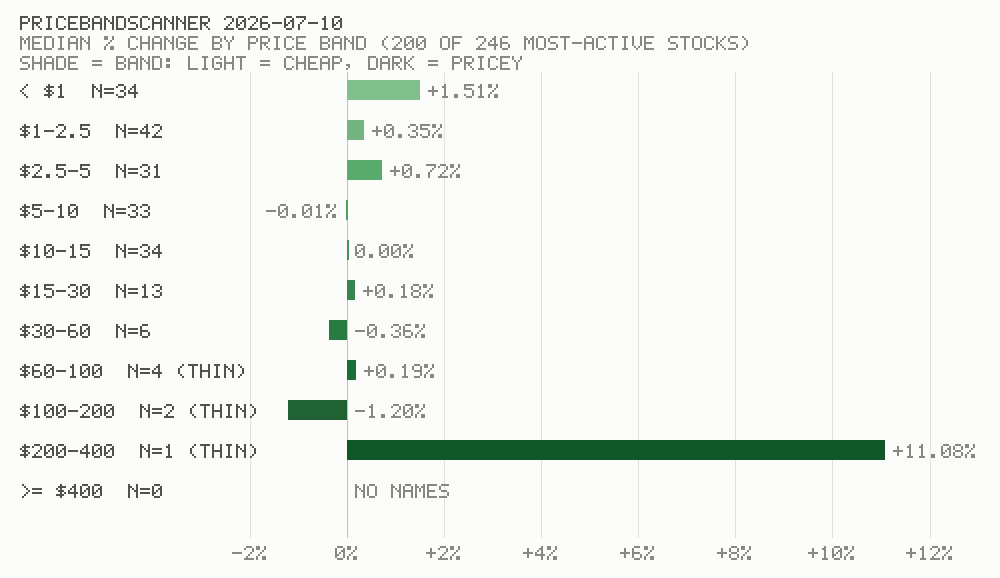
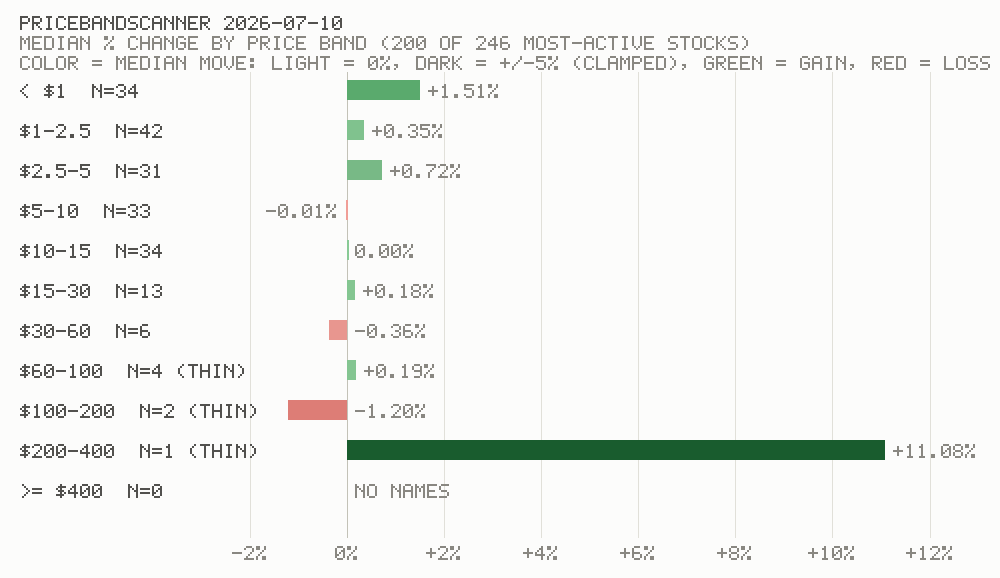
PriceBandScanner chart: diverging colors encode the move, not the band
Bar color now carries the median % change - light-to-dark green for
gains of 0 to +5%, light-to-dark red for losses, clamped at +/-5% -
replacing the shade-by-band-position scheme, so a flat band looks
quiet and a losing band is unmistakably red. Red ramp is the green
OKLCH ladder at hue 25. Header key, doc example image, and alt text
updated; TODO.md gains the remaining deferred items (breaker
extensions, version stamps, script tests) with the completed chart
item removed.

diff --git a/tools/price_band_scanner.py b/tools/price_band_scanner.py
@@ -123,17 +123,16 @@ def _oklch_hex(L, C, H):
     return "#%02x%02x%02x" % (enc(r), enc(g), enc(bl))
 
 
-def green_ramp(n):
-    out = []
-    for i in range(n):
-        L = 0.75 - (0.385 * i / max(1, n - 1))
-        c = 0.12 if 0.45 <= L <= 0.70 else 0.10
-        hx = None
-        while hx is None and c > 0.02:
-            hx = _oklch_hex(L, c, 150)
-            c -= 0.01
-        out.append(hx or "#2c7f44")
-    return out
+def value_color(v):
+    hue = 150 if v >= 0 else 25
+    t = min(abs(v), 5.0) / 5.0
+    L = 0.78 - t * (0.78 - 0.42)
+    c = 0.12 if 0.45 <= L <= 0.70 else 0.10
+    hx = None
+    while hx is None and c > 0.02:
+        hx = _oklch_hex(L, c, hue)
+        c -= 0.01
+    return hx or "#888888"
 
 
 class Canvas:
@@ -199,7 +198,7 @@ def render_chart(path, stats, rows_used, total_items, date_str, degenerate=False
         return left + (v - lo) / (hi - lo) * plot_w
     cv.text(20, 16, f"PRICEBANDSCANNER {date_str}", INK, 2)
     cv.text(20, 36, f"MEDIAN % CHANGE BY PRICE BAND ({rows_used} OF {total_items} MOST-ACTIVE STOCKS)", MUTED, 2)
-    cv.text(20, 56, "SHADE = BAND: LIGHT = CHEAP, DARK = PRICEY", MUTED, 2)
+    cv.text(20, 56, "COLOR = MEDIAN MOVE: LIGHT = 0%, DARK = +/-5% (CLAMPED), GREEN = GAIN, RED = LOSS", MUTED, 2)
     if degenerate:
         cv.text(20, 78, "WARNING: DEGENERATE SAMPLE (MARKET CLOSED) - NOT ACTIVITY-RANKED", "#d03b3b", 2)
     step = max(1, round((hi - lo) / 8))
@@ -210,7 +209,6 @@ def render_chart(path, stats, rows_used, total_items, date_str, degenerate=False
         lbl = f"{'+' if t > 0 else ''}{t}%"
         cv.text(x - cv.text_width(lbl, 2) / 2, h - 32, lbl, MUTED, 2)
         t += step
-    ramp = green_ramp(len(stats))
     for i, s in enumerate(stats):
         y = top + i * rowh
         label = s["band"] + (f"  N={s['count']}" if s["count"] else "  N=0")
@@ -222,7 +220,7 @@ def render_chart(path, stats, rows_used, total_items, date_str, degenerate=False
             continue
         v = s["median_pct"]
         x0, x1 = X(min(0.0, v)), X(max(0.0, v))
-        cv.rect(x0, y + 2, x1 if x1 > x0 + 1 else x0 + 2, y + 22, ramp[i])
+        cv.rect(x0, y + 2, x1 if x1 > x0 + 1 else x0 + 2, y + 22, value_color(v))
         vlbl = f"{'+' if v > 0 else ''}{v:.2f}%"
         if v >= 0:
             cv.text(x1 + 8, y + 6, vlbl, MUTED, 2)

diff --git a/TODO.md b/TODO.md
@@ -1,0 +1,11 @@
+# TODO — deferred work before a stable 1.2
+
+## Circuit breaker extensions: stop-count and drawdown guards
+- Halt new buys when N stop-losses fill within a window (e.g. 3 in one day) — a regime signal the daily P&L breaker can miss.
+- Halt or de-risk on cumulative drawdown from the account's high-water mark (the daily breaker resets every day and never sees a slow bleed).
+
+## Version-stamp every run
+Include the routine document's git commit hash in each run report (and optionally a column in `trade-ledger.csv`), so every trade is attributable to the exact rule set that produced it.
+
+## Tests for the deterministic scripts
+Small test suite for `evaluate_candidates.py` and `tools/price_band_scanner.py` using the already-verified fixtures: FISN/TTRX medians and highs (live-checked 2026-07-07), the interpolated-bar handling, and the degenerate-sample guard fixture.

diff --git a/tools/PriceBandScanner.md b/tools/PriceBandScanner.md
@@ -34,9 +34,9 @@ Run AFTER the US market close (1:00 PM PT) and BEFORE 5:00 PM PT. At 5:00 PM PT 
 
 Write the report to `tools/logs/PriceBandScanner-log-YYYY_MM_DD.md`, where the date is the run's **US Pacific** date (`America/Los_Angeles` — convert explicitly; the sandbox clock may be Eastern). The constant prefix plus year-first date makes alphabetical sorting chronological. One log per day: if today's file already exists, overwrite it — the latest post-close run supersedes. The chart PNG from Step 3 shares the log's basename (`PriceBandScanner-log-YYYY_MM_DD.png`, same overwrite rule); reference it from the markdown log as `![band chart](PriceBandScanner-log-YYYY_MM_DD.png)`.
 
-Example of the chart a run produces (frozen copy of the 2026-07-10 test render — the live dailies land in the gitignored `tools/logs/`):
+Example of the chart a run produces (frozen render from 2026-07-10 data — the live dailies land in the gitignored `tools/logs/`):
 
-![Example PriceBandScanner chart: median % change per price band, bands shaded light to dark green from cheapest to priciest](../images/pricebandscanner-example.png)
+![Example PriceBandScanner chart: median % change per price band, bar color encoding the move — light to dark green for gains of 0 to +5%, light to dark red for losses, clamped at +/-5%](../images/pricebandscanner-example.png)
 
 The log must contain:
 - Run timestamp (Pacific) and the sample caveat: N rows used of `total_items` scan matches — the scan returns the day's top names by **relative volume**, so this measures the most ACTIVE stocks (the population the momentum routine actually trades), not the whole market.